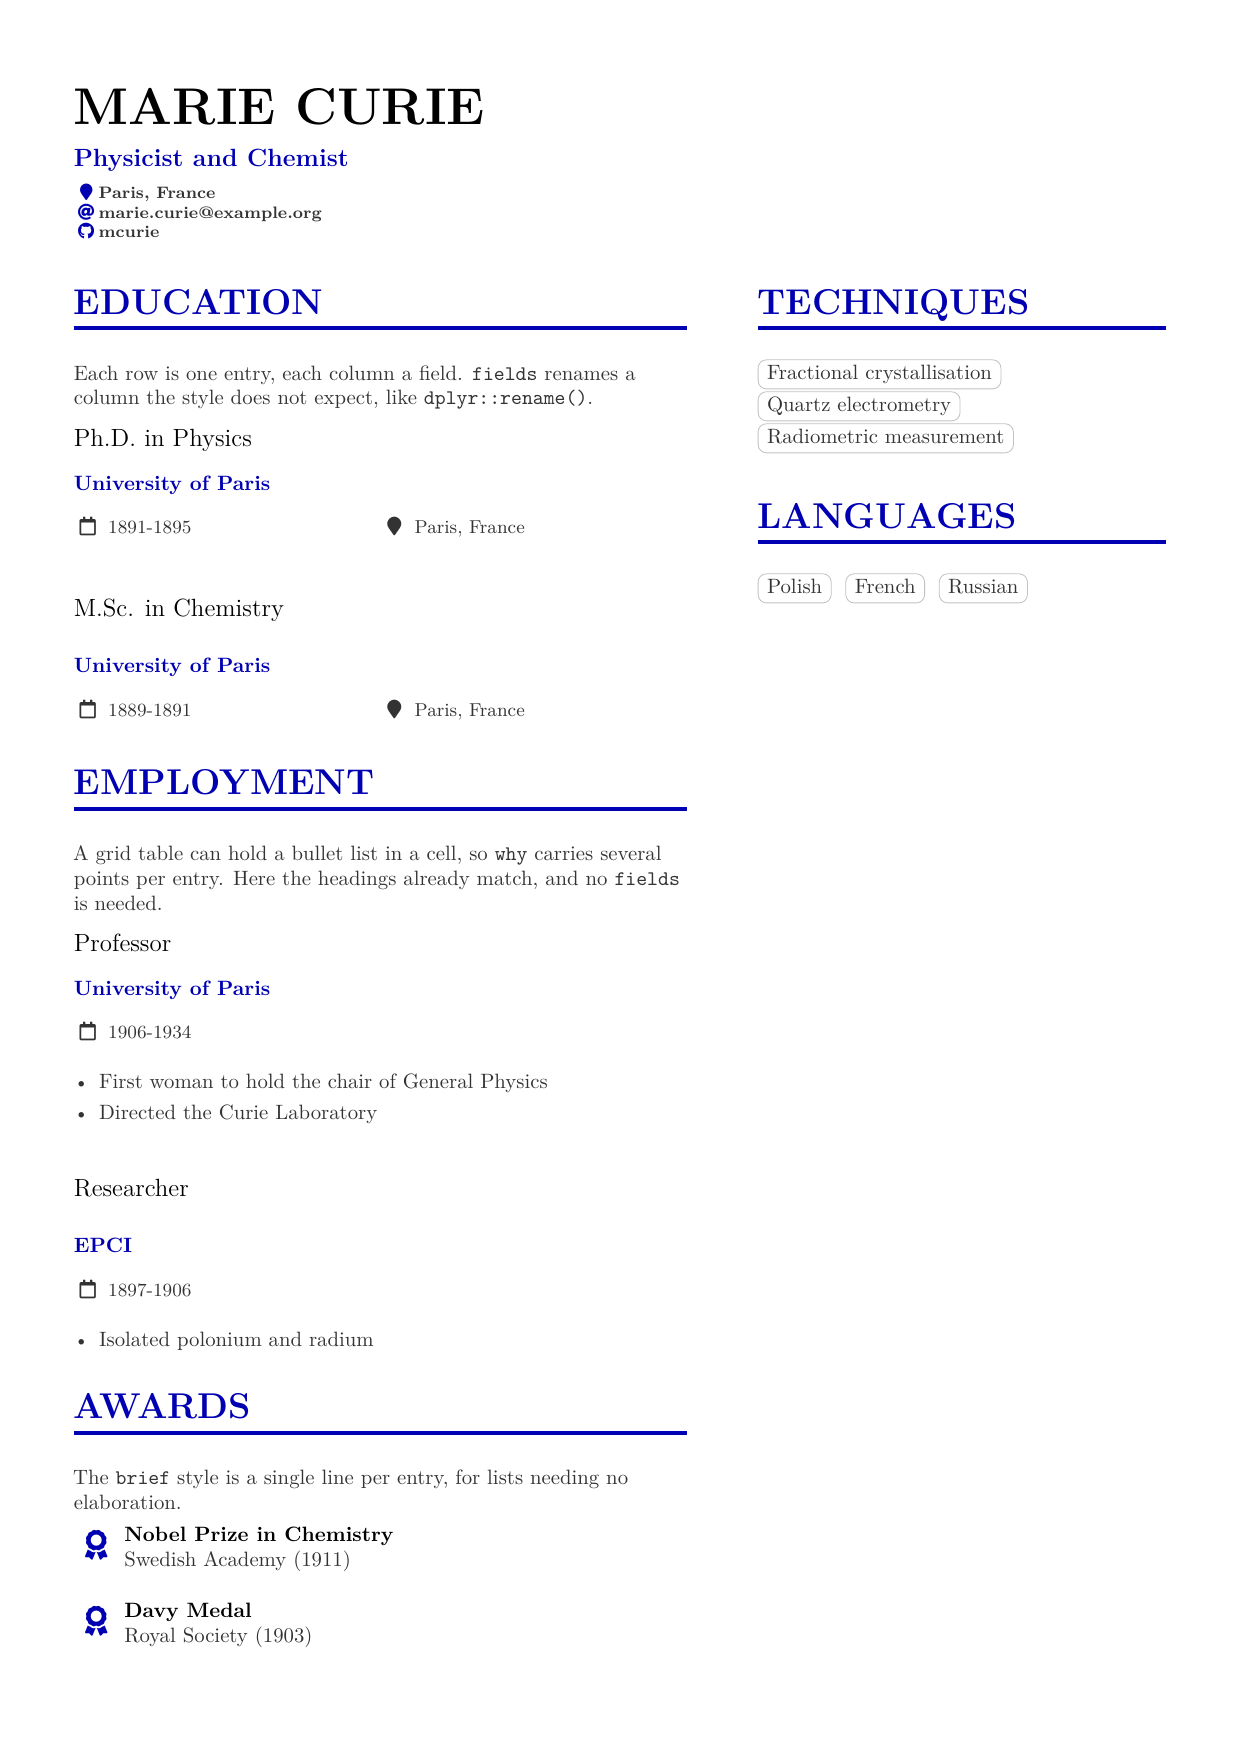
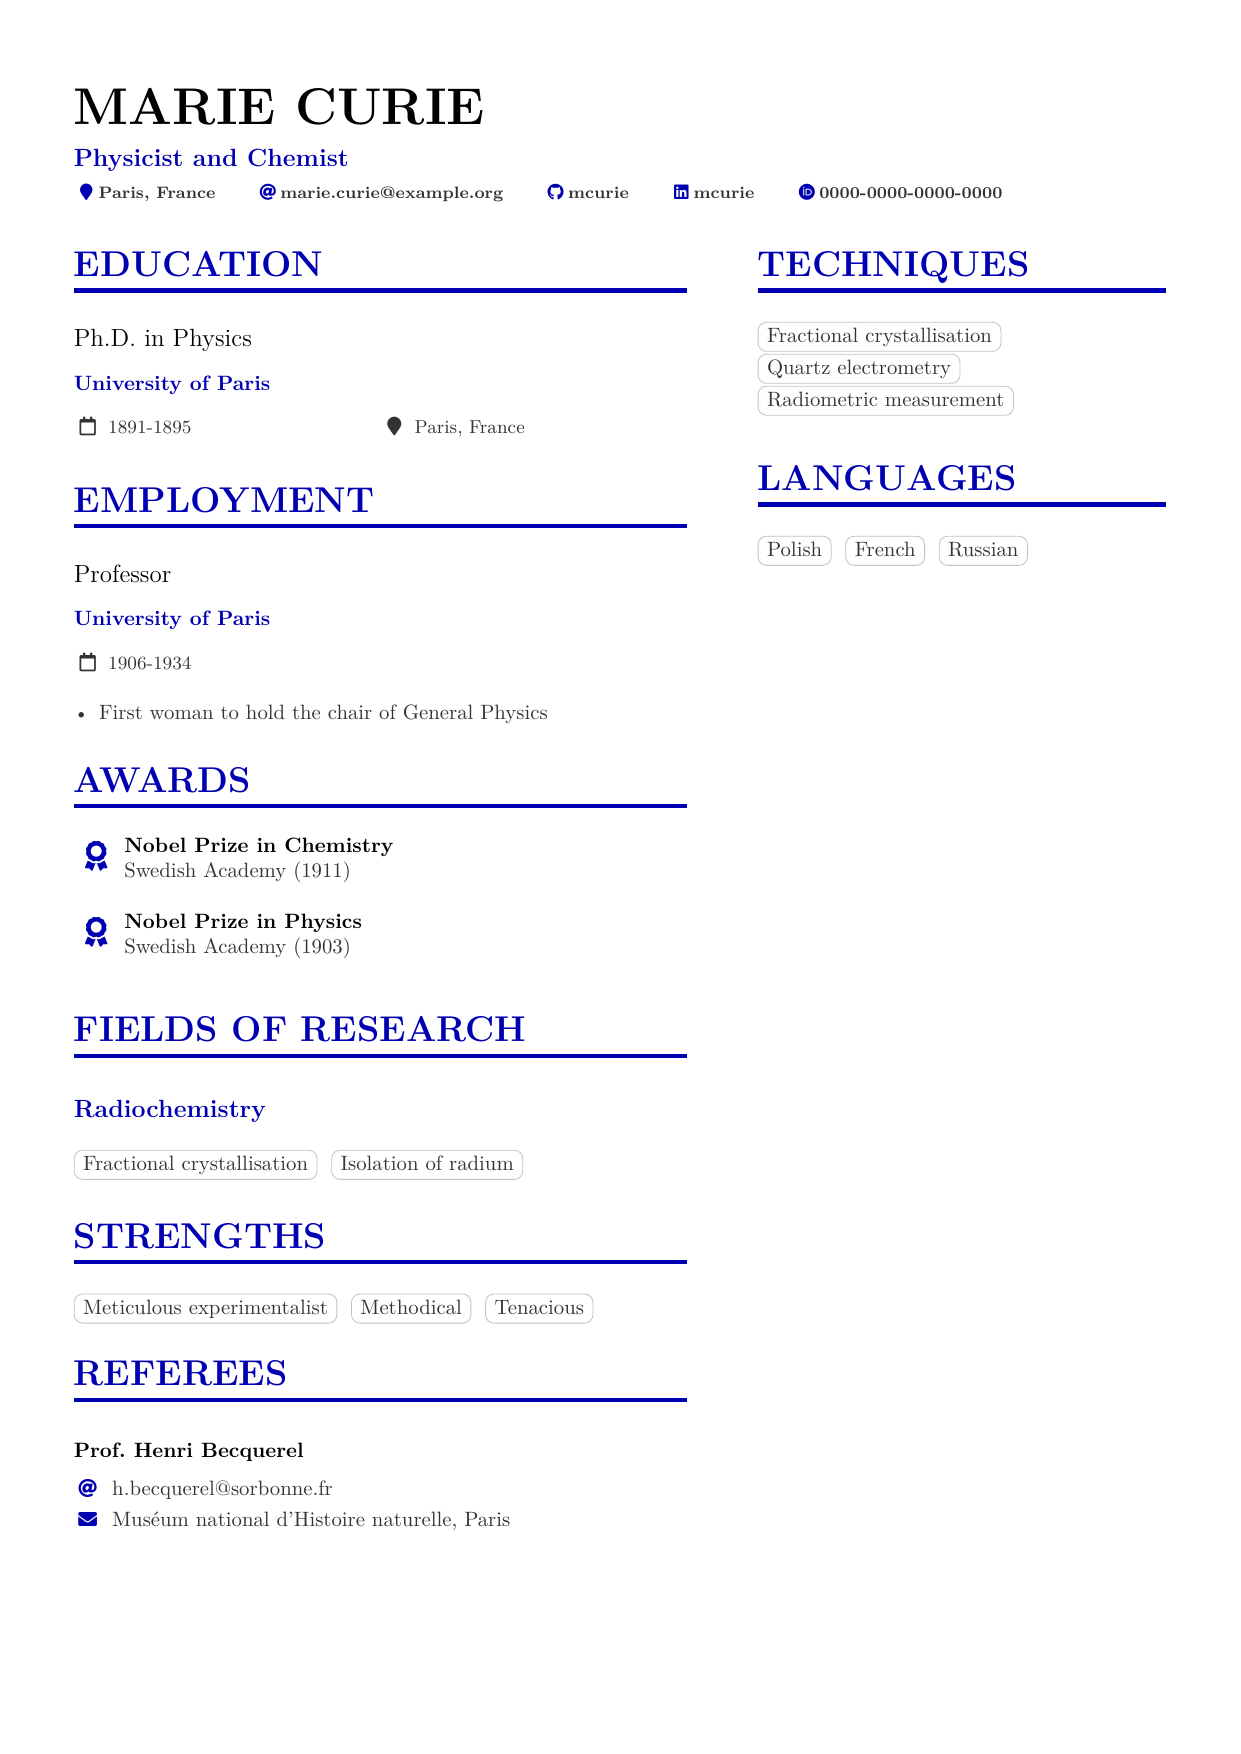
Add badges and cards entry styles

diff --git a/_extensions/altacv/entries/cards.tex b/_extensions/altacv/entries/cards.tex
@@ -1,0 +1,9 @@
+$-- \cvref draws a reference card: a bold name over two icon-marked lines.
+$-- `with` is the closer fit for the first line (an "@" icon suits an email
+$-- address) and `why` for the second (an envelope icon suits a mailing
+$-- address) -- the shape upstream's own sample gives its "Referees" section.
+$for(entries)$
+\cvref{$entries.what$}{$entries.with$}{$entries.why$}
+
+$sep$\divider
+$endfor$

diff --git a/_extensions/altacv/entries/badges.tex b/_extensions/altacv/entries/badges.tex
@@ -1,0 +1,5 @@
+$-- `skills` groups members under a `what` heading via \cvsubsection; badges
+$-- skips the heading and prints one flat run of \cvtag pills, one per
+$-- entry's `what` -- the shape upstream's own sample gives its "Strengths"
+$-- section.
+$for(entries)$\cvtag{$entries.what$}$sep$ $endfor$
